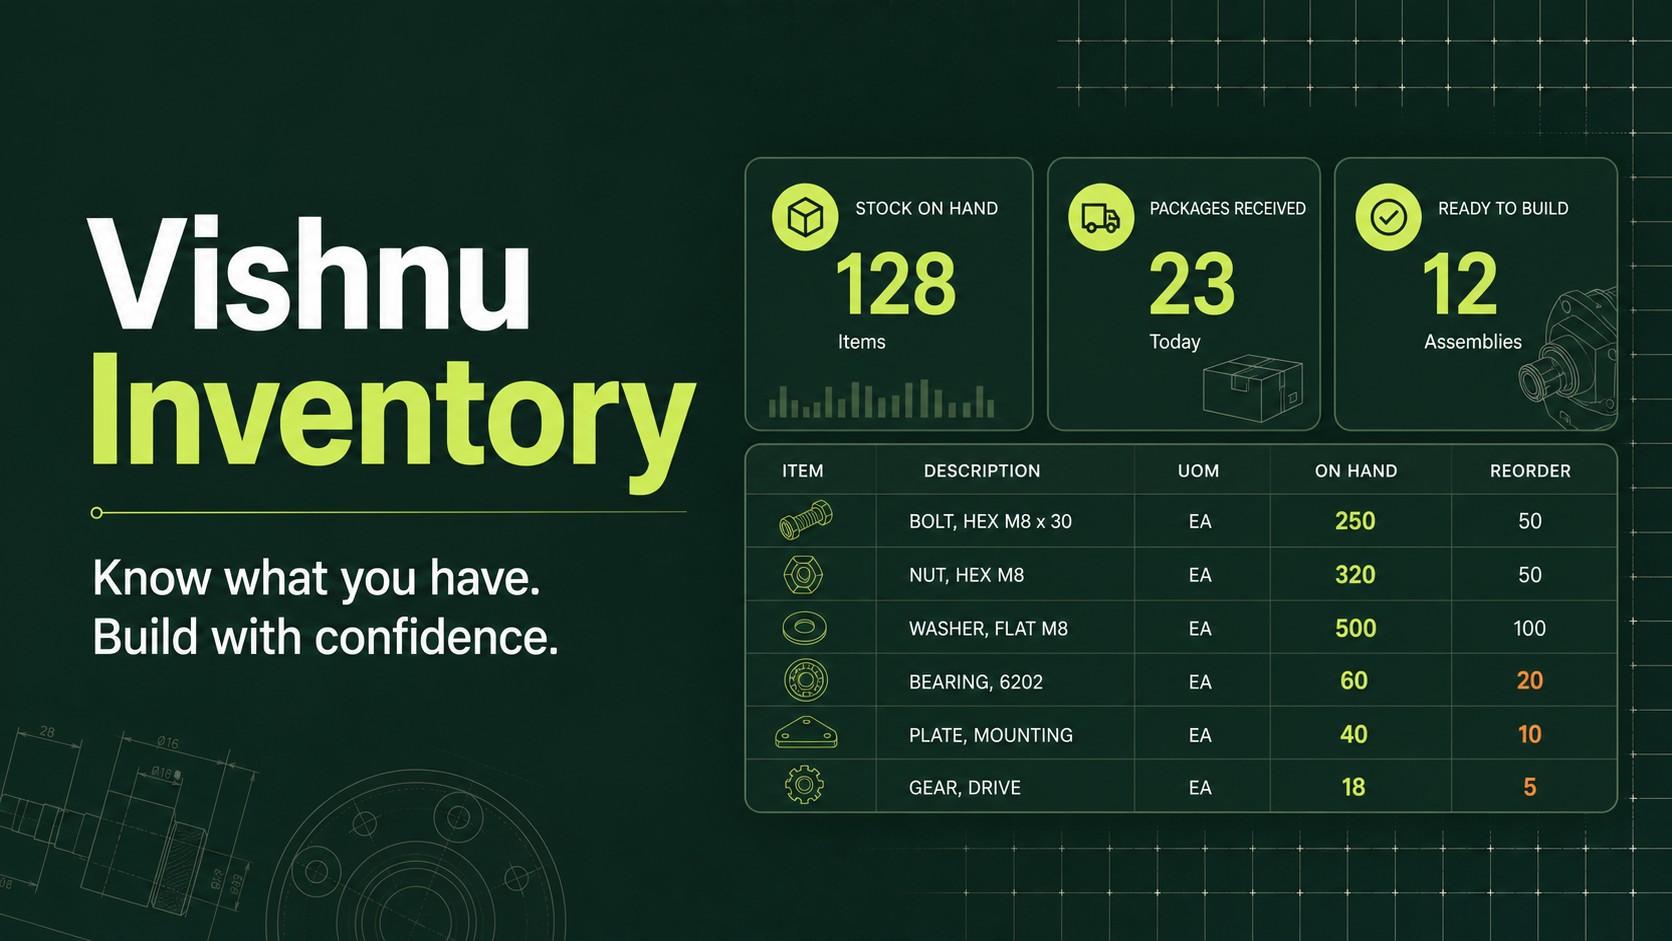
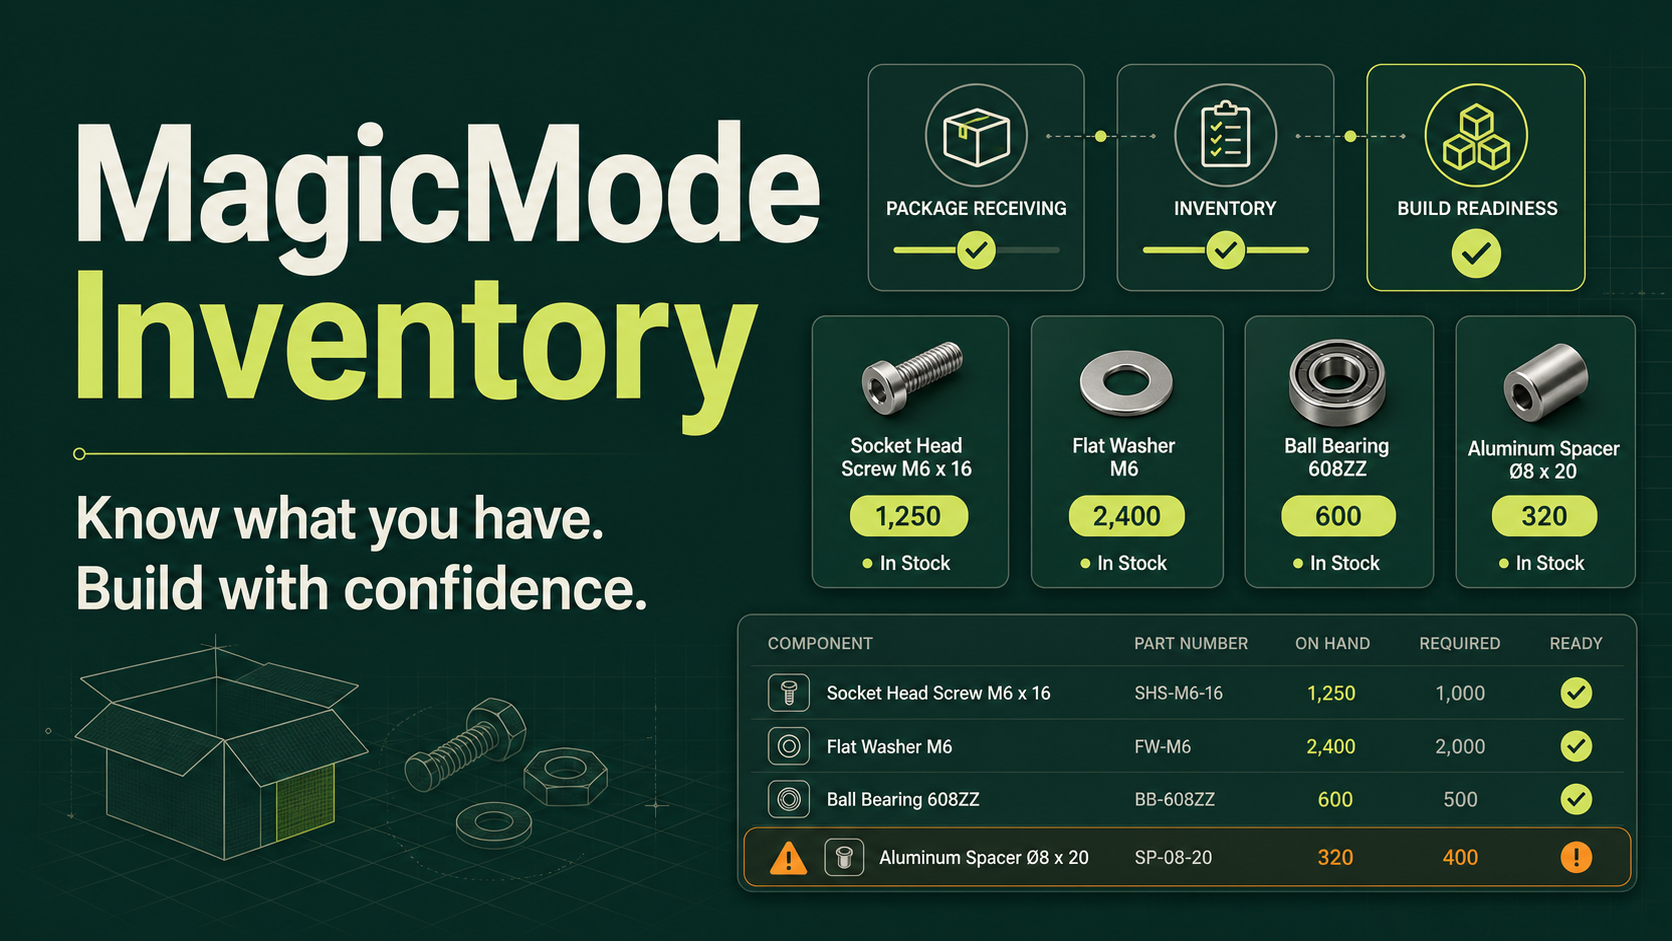
Rename app to MagicMode Inventory

diff --git a/worker/index.ts b/worker/index.ts
@@ -49,7 +49,7 @@ const worker = {
 const seed=[
  ["","Jetson Orin AGX","Compute",1,2,1999.99,"pcs","Amazon/Nvidia","",1,"Edge Compute"],["CU31 CXLCC BX H03R1","See3 Cam without enclosure","Top Camera",1,3,249,"cameras","e-con Systems","2 months",1,""],["CU31 CHLCC H03R1","See3 Cam with enclosure","Side Cameras and rear",3,4,289,"cameras","e-con Systems","2 months",1,""],["DSL392B-NIR-F 2.0 / DSL392B-650-F 2.0","Camera Top Lens","Camera Lens",1,15,99,"lenses","Sunex","2 days",2,""],["","Camera Rear Housing","3d print",1,0,null,"pcs","SunPe","",1,""],["CLA020-PC","Camera Lens Mount","M12 Lens Mount, 20mm Spacing, 10mm Height",1,29,4.5,"pcs","CommonLands","2 days",2,""],["","Camera Side Housing","3d print",2,0,null,"pcs","SunPe","",1,""],["D51601","R-NET Development Kit","3pc component set",1,40,133.9,"pcs","Curtiss-Wright","2 months",2,""],["P77978","R-NET JSM Bulkhead Retaining Clip","u-clip",1,95,1.61,"pcs","Curtiss-Wright","1 month",3,""],["P78039","R-Net Rebus Panel Mount Connector","surface plug",1,0,5.15,"pcs","Curtiss-Wright","",3,""],["","PCB Fab board","Software Board",1,3,40,"boards","PCB Unlimited","2 weeks",1,""],["","Display screen","Touch Screen Display",1,16,54.68,"screens","Crystal Displays","4 weeks",1,""],["","Display Connector","HDMI to Displayport",1,0,7.99,"pcs","Benfei","",2,""],["","Display Power Cable","USB-A to micro-usb",1,10,null,"pcs","","",2,""],["","USB C to USB C Cable","1.6 FT, Right Angle 20Gbps Data Transfer",2,23,null,"pcs","Amazon","",3,""],["","Power cable (RNET-Jetson)","",1,0,null,"pcs","","",3,""],["","USB C to USB A 20Gbps Data Cable","4FT, For Boom Camera",1,5,null,"pcs","","",3,""],["","USB-C to 4-Port USB-C","3.2 Gen2 Ports Hub",1,2,null,"pcs","Amazon","",3,""],["","Jetson Housing (2 pc.)","3d print",1,0,1512,"pcs","SunPe","",1,""],["","Camera Boom","3d print",1,1,null,"pcs","SunPe","",1,""],["","Speaker","",1,25,null,"speakers","Amazon/Honkyob","",1,""],["91290A012","Side Camera Screws","M2 x 0.4mm, 5mm Socket Head",8,181,null,"screws","McMaster-Carr","2 days",3,""],["91290A320","Mounting Screws","M6 x 1mm, 15mm Socket Head",8,170,null,"screws","McMaster-Carr","2 days",3,""],["96887A121","Low-Strength Steel Square Nut","M6 x 1mm Thread",8,216,null,"nuts","McMaster-Carr","2 days",3,""],["9031A112","Nylon-Insert Locknut","M4 x 0.7mm Thread",4,0,null,"nuts","McMaster-Carr","2 days",3,""],["95893A179","Thread-Forming Screws For Plastic","M2.5 x 8mm",4,91,null,"screws","McMaster-Carr","2 days",3,""],["99461A941","Phillips Thread-Forming Screws","M3, 8mm Long",4,0,null,"screws","McMaster-Carr","2 days",3,""],["","Battery","Batteries for Chair",2,2,299.99,"batteries","","",null,""]
 ];
-async function initialize(db:D1Database){await db.batch([db.prepare("CREATE TABLE IF NOT EXISTS items (id INTEGER PRIMARY KEY AUTOINCREMENT, part_number TEXT NOT NULL, name TEXT NOT NULL, description TEXT NOT NULL, qty_needed REAL NOT NULL, qty_on_hand REAL NOT NULL, unit_cost REAL, unit TEXT NOT NULL, supplier TEXT NOT NULL, lead_time TEXT NOT NULL, bom_level INTEGER, notes TEXT NOT NULL)"),db.prepare("CREATE TABLE IF NOT EXISTS transactions (id INTEGER PRIMARY KEY AUTOINCREMENT, item_id INTEGER NOT NULL, kind TEXT NOT NULL, quantity REAL NOT NULL, reference TEXT NOT NULL, note TEXT NOT NULL, created_at TEXT NOT NULL)"),db.prepare("CREATE INDEX IF NOT EXISTS transactions_item_idx ON transactions(item_id)"),db.prepare("CREATE TABLE IF NOT EXISTS purchase_links (item_id INTEGER PRIMARY KEY NOT NULL, url TEXT NOT NULL, updated_at TEXT NOT NULL)")]);const c=await db.prepare("SELECT COUNT(*) c FROM items").first<{c:number}>();if(!c?.c){for(const x of seed)await db.prepare("INSERT INTO items(part_number,name,description,qty_needed,qty_on_hand,unit_cost,unit,supplier,lead_time,bom_level,notes) VALUES(?,?,?,?,?,?,?,?,?,?,?)").bind(...x).run();}}
+async function initialize(db:D1Database){await db.batch([db.prepare("CREATE TABLE IF NOT EXISTS items (id INTEGER PRIMARY KEY AUTOINCREMENT, part_number TEXT NOT NULL, name TEXT NOT NULL, description TEXT NOT NULL, qty_needed REAL NOT NULL, qty_on_hand REAL NOT NULL, unit_cost REAL, unit TEXT NOT NULL, supplier TEXT NOT NULL, lead_time TEXT NOT NULL, bom_level INTEGER, notes TEXT NOT NULL)"),db.prepare("CREATE UNIQUE INDEX IF NOT EXISTS items_identity_idx ON items(LOWER(TRIM(part_number)),LOWER(TRIM(name)))"),db.prepare("CREATE TABLE IF NOT EXISTS transactions (id INTEGER PRIMARY KEY AUTOINCREMENT, item_id INTEGER NOT NULL, kind TEXT NOT NULL, quantity REAL NOT NULL, reference TEXT NOT NULL, note TEXT NOT NULL, created_at TEXT NOT NULL)"),db.prepare("CREATE INDEX IF NOT EXISTS transactions_item_idx ON transactions(item_id)"),db.prepare("CREATE TABLE IF NOT EXISTS purchase_links (item_id INTEGER PRIMARY KEY NOT NULL, url TEXT NOT NULL, updated_at TEXT NOT NULL)")]);const c=await db.prepare("SELECT COUNT(*) c FROM items").first<{c:number}>();if(!c?.c){for(const x of seed)await db.prepare("INSERT OR IGNORE INTO items(part_number,name,description,qty_needed,qty_on_hand,unit_cost,unit,supplier,lead_time,bom_level,notes) VALUES(?,?,?,?,?,?,?,?,?,?,?)").bind(...x).run();}}
 const json=(data:unknown,status=200)=>new Response(JSON.stringify(data),{status,headers:{"content-type":"application/json"}});
 async function handleApi(request:Request,env:Env,url:URL){await initialize(env.DB);
  if(url.pathname==="/api/items"&&request.method==="GET"){const r=await env.DB.prepare("SELECT i.id,i.part_number partNumber,i.name,i.description,i.qty_needed qtyNeeded,i.qty_on_hand qtyOnHand,i.unit_cost unitCost,i.unit,i.supplier,i.lead_time leadTime,i.bom_level bomLevel,i.notes,COALESCE(p.url,'') purchaseUrl FROM items i LEFT JOIN purchase_links p ON p.item_id=i.id ORDER BY i.name").all();return json(r.results);}

diff --git a/app/page.tsx b/app/page.tsx
@@ -36,7 +36,7 @@ export default function Home() {
   async function deleteItem(){if(!itemEditor||isNewItem)return;if(!confirm(`Delete ${itemEditor.name}? This also removes its activity history and purchase link.`))return;const r=await fetch(`/api/items/${itemEditor.id}`,{method:"DELETE"});const data=await r.json();if(!r.ok){setMessage(data.error||"The item could not be deleted.");return;}setItemEditor(null);setMessage("Inventory item deleted.");await refresh();}
 
   return <main>
-    <header className="topbar"><div className="brand"><span className="mark">V</span><div><strong>Vishnu Inventory</strong><small>Production materials control</small></div></div><div className="header-actions"><button className="ghost undo" disabled={!transactions.length||busy} onClick={undo}>↶ Undo</button><button className="chair" disabled={busy} onClick={newChair}>+ New Chair</button><button className="primary receive-top" onClick={()=>items[0]&&open("receive",items[0])}>+ Receive stock</button></div></header>
+    <header className="topbar"><div className="brand"><span className="mark">M</span><div><strong>MagicMode Inventory</strong><small>Production materials control</small></div></div><div className="header-actions"><button className="ghost undo" disabled={!transactions.length||busy} onClick={undo}>↶ Undo</button><button className="chair" disabled={busy} onClick={newChair}>+ New Chair</button><button className="primary receive-top" onClick={()=>items[0]&&open("receive",items[0])}>+ Receive stock</button></div></header>
     {message&&<div className="notice"><span>{message}</span><button onClick={()=>setMessage("")}>×</button></div>}
     <section className="hero"><div><p className="eyebrow">INVENTORY OVERVIEW</p><h1>Know what you have.<br/><span>Build with confidence.</span></h1><p className="lede">Live stock levels from your BOM, with every package received and every item used recorded in one place.</p></div><div className="build-card"><span>BUILD READINESS</span><strong>{stats.builds}</strong><p>complete unit{stats.builds===1?"":"s"} ready</p><div className="meter"><i style={{width:`${Math.min(100,stats.builds*20)}%`}}/></div><small>Based on the tightest BOM component</small></div></section>
     <section className="stats"><article><span>Total parts</span><strong>{stats.total}</strong><small>Active BOM lines</small></article><article className={stats.low?"warn":""}><span>Needs attention</span><strong>{stats.low}</strong><small>Below 5 builds</small></article><article><span>Inventory value</span><strong>{money.format(stats.value)}</strong><small>Known unit costs</small></article><article><span>Recent movement</span><strong>{transactions.length}</strong><small>Logged transactions</small></article></section>

diff --git a/docs/index.html b/docs/index.html
@@ -3,9 +3,9 @@
 <head>
   <meta charset="utf-8">
   <meta name="viewport" content="width=device-width,initial-scale=1">
-  <meta name="description" content="Vishnu Inventory — production materials control built from the company BOM.">
-  <meta http-equiv="refresh" content="4;url=https://vishnu-inventory-control.faughnancurtis2.chatgpt.site">
-  <title>Vishnu Inventory</title>
+  <meta name="description" content="MagicMode Inventory — production materials control built from the company BOM.">
+  <meta http-equiv="refresh" content="4;url=https://magicmode-inventory.faughnancurtis2.chatgpt.site">
+  <title>MagicMode Inventory</title>
   <style>
     :root{color-scheme:light;--ink:#17332e;--lime:#dff36b;--paper:#f4f7f3;--muted:#70817d}*{box-sizing:border-box}body{margin:0;min-height:100vh;display:grid;place-items:center;background:radial-gradient(circle at 80% 15%,#e7efce,transparent 35%),var(--paper);color:var(--ink);font-family:Inter,system-ui,sans-serif;padding:24px}.card{width:min(760px,100%);background:#fff;border:1px solid #dce5df;border-radius:24px;padding:clamp(32px,7vw,70px);box-shadow:0 30px 80px #17332e18}.mark{width:52px;height:52px;display:grid;place-items:center;border-radius:14px;background:var(--ink);color:var(--lime);font:italic 30px Georgia}p.label{margin:28px 0 12px;color:#167a5b;font-size:12px;font-weight:900;letter-spacing:.14em}h1{font:600 clamp(46px,8vw,78px)/.95 Georgia;margin:0;letter-spacing:-.04em}h1 em{color:#167a5b}.copy{max-width:580px;color:var(--muted);line-height:1.65;font-size:17px;margin:24px 0 30px}.button{display:inline-block;background:var(--ink);color:#fff;text-decoration:none;font-weight:800;padding:14px 20px;border-radius:11px}.note{display:block;color:var(--muted);font-size:12px;margin-top:16px}
   </style>
@@ -14,9 +14,9 @@
   <main class="card">
     <div class="mark">V</div>
     <p class="label">PRODUCTION MATERIALS CONTROL</p>
-    <h1>Vishnu <em>Inventory</em></h1>
+    <h1>MagicMode <em>Inventory</em></h1>
     <p class="copy">Know what you have. Build with confidence. Receive packages, track consumption, record complete chair builds, and identify materials below five builds.</p>
-    <a class="button" href="https://vishnu-inventory-control.faughnancurtis2.chatgpt.site">Open inventory app →</a>
+    <a class="button" href="https://magicmode-inventory.faughnancurtis2.chatgpt.site">Open inventory app →</a>
     <small class="note">Opening automatically in a few seconds.</small>
   </main>
 </body>

diff --git a/app/layout.tsx b/app/layout.tsx
@@ -1,4 +1,4 @@
 import type { Metadata } from "next";
 import "./globals.css";
-export const metadata: Metadata={title:"Vishnu Inventory",description:"Receive, use, and track production materials from the company BOM.",openGraph:{title:"Vishnu Inventory",description:"Know what you have. Build with confidence.",images:[{url:"/og.png",width:1672,height:941,alt:"Vishnu Inventory dashboard preview"}]},twitter:{card:"summary_large_image",title:"Vishnu Inventory",description:"Know what you have. Build with confidence.",images:["/og.png"]}};
+export const metadata: Metadata={title:"MagicMode Inventory",description:"Receive, use, and track production materials from the company BOM.",openGraph:{title:"MagicMode Inventory",description:"Know what you have. Build with confidence.",images:[{url:"/og.png",width:1672,height:941,alt:"MagicMode Inventory dashboard preview"}]},twitter:{card:"summary_large_image",title:"MagicMode Inventory",description:"Know what you have. Build with confidence.",images:["/og.png"]}};
 export default function RootLayout({children}:{children:React.ReactNode}){return <html lang="en"><body>{children}</body></html>}

diff --git a/README.md b/README.md
@@ -1,10 +1,10 @@
-# Vishnu Inventory
+# MagicMode Inventory
 
 Production inventory control built from the company bill of materials.
 
 ## Live app
 
-[Open Vishnu Inventory](https://vishnu-inventory-control.faughnancurtis2.chatgpt.site)
+[Open MagicMode Inventory](https://magicmode-inventory.faughnancurtis2.chatgpt.site)
 
 The app supports receiving packages, consuming individual materials, recording a complete chair build, undoing recent stock movements, low-stock alerts below five builds, and a durable transaction history.
 
